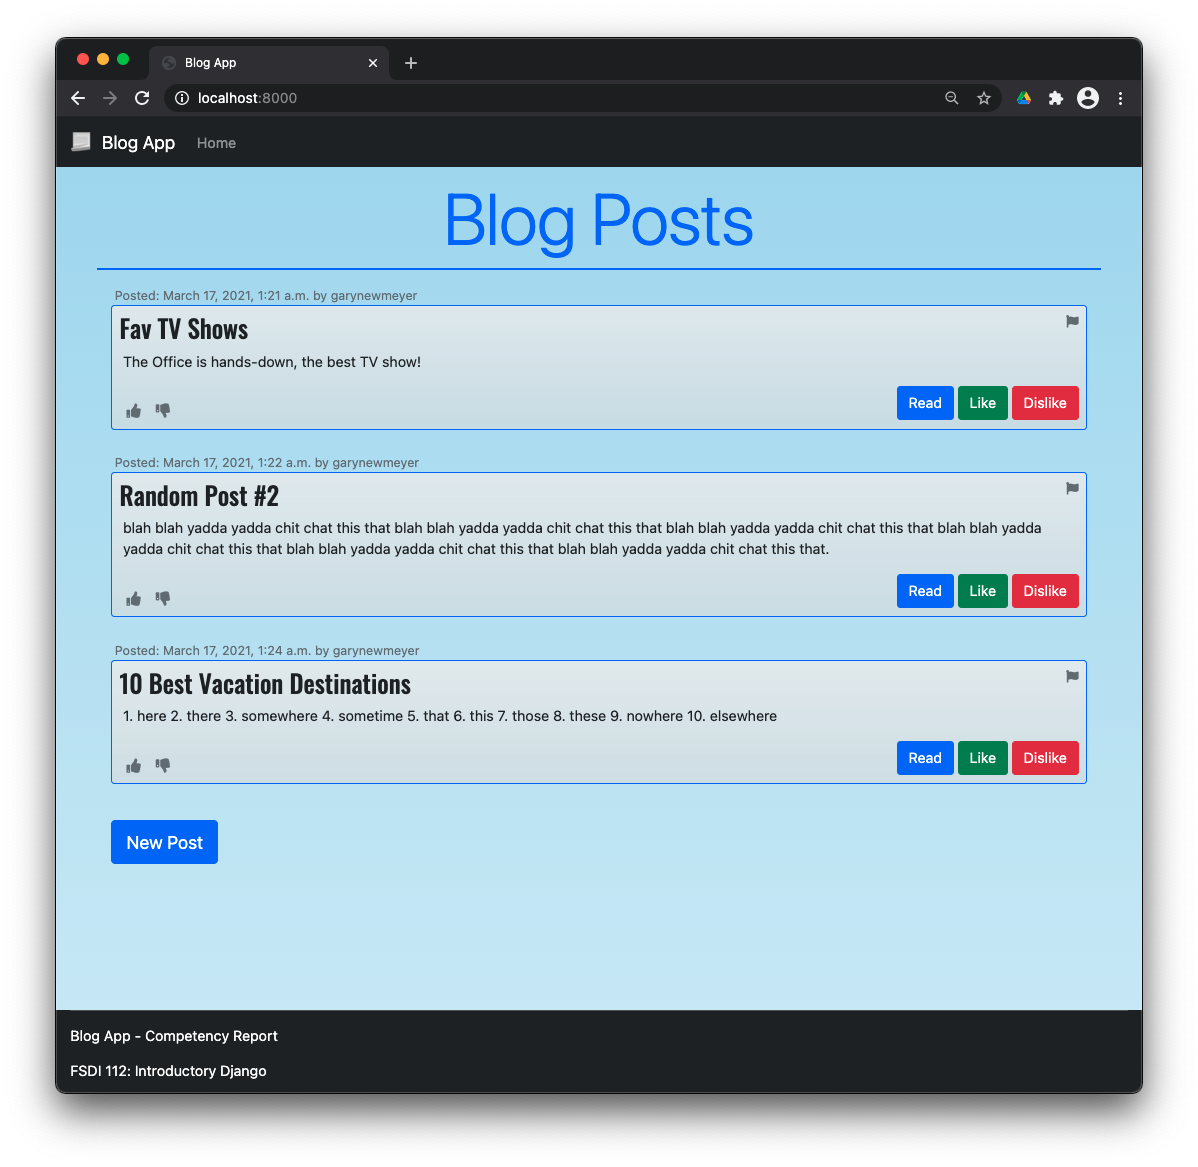
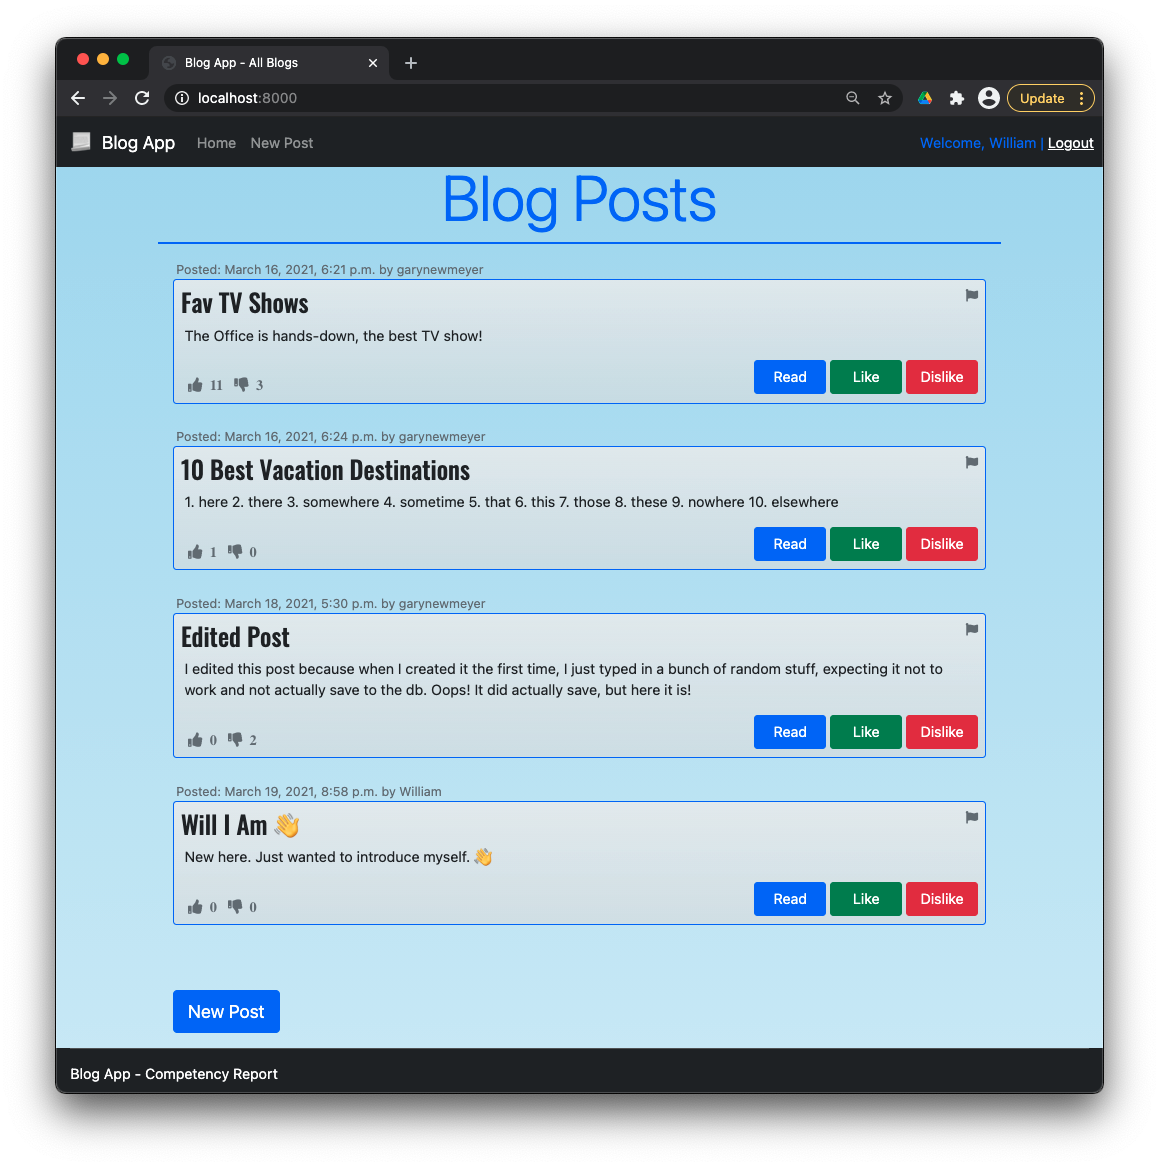
project complete

diff --git a/blog/templates/base.html b/blog/templates/base.html
@@ -15,32 +15,28 @@
 
 <body>
     <!-- N A V   B A R -->
-    <nav class="navbar navbar-expand-lg navbar-dark bg-dark fixed-top mb-5 text-warning">
+    <nav class="navbar navbar-expand-lg navbar-dark bg-dark fixed-top mb-5">
         <a class="navbar-brand mx-3" href="{% url 'home' %}">📃 &nbsp Blog App</a>
         <button class="navbar-toggler" type="button" data-toggle="collapse" data-target="#navbarNavAltMarkup" aria-controls="navbarNavAltMarkup" aria-expanded="false" aria-label="Toggle navigation">
             <span class="navbar-toggler-icon"></span>
         </button>
         <div class="collapse navbar-collapse" id="navbarNavAltMarkup">
-            <div class="navbar-nav">
-                <a class="nav-link" href="{% url 'home' %}">Home</a>
-            </div>
-            <div class="navbar-nav">
-                <a class="nav-link" href="{% url 'new_post' %}">New Post</a>
-            </div>
+            <ul class="navbar-nav mr-auto">
+                <li class="nav-item">
+                    <a class="nav-link" href="{% url 'home' %}">Home</a>
+                </li>
+                <li class="nav-item">
+                    <a class="nav-link" href="{% url 'new_post' %}">New Post</a>
+                </li>
+            </ul>
             {% if user.is_authenticated %}
-                <div class="navbar-nav">
-                    <span>
-                        <p>Welcome, {{user.username}} | <a href="{% url 'logout' %}">Logout</a></p>
-                        
-                    </span>
-                    
-                </div>
-                
+                <span class="navbar-text text-primary nav-log">
+                    Welcome, {{user.username}} | <a href="{% url 'logout' %}">Logout</a>
+                </span>
             {% else %}
-            <div class="navbar-nav">
-                <p>You are not logged in. | <a href="{% url 'login' %}">Login</a></p>
-            </div>
-                
+                <span class="navbar-text text-warning nav-log">
+                    You are not logged in | <a class="text-warning" href="{% url 'login' %}">Login</a>
+                </span>
             {% endif %}
         </div>
     </nav>
@@ -60,7 +56,7 @@
 
 </body>
 <!-- S C R I P T S -->
-<script src="https://cdn.jsdelivr.net/npm/bootstrap@5.0.0-beta2/dist/js/bootstrap.bundle.min.js" integrity="sha384-b5kHyXgcpbZJO/tY9Ul7kGkf1S0CWuKcCD38l8YkeH8z8QjE0GmW1gYU5S9FOnJ0" crossorigin="anonymous"></script>
 <script src="https://code.jquery.com/jquery-3.6.0.min.js" integrity="sha256-/xUj+3OJU5yExlq6GSYGSHk7tPXikynS7ogEvDej/m4=" crossorigin="anonymous"></script>
+<script src="https://cdn.jsdelivr.net/npm/bootstrap@5.0.0-beta2/dist/js/bootstrap.bundle.min.js" integrity="sha384-b5kHyXgcpbZJO/tY9Ul7kGkf1S0CWuKcCD38l8YkeH8z8QjE0GmW1gYU5S9FOnJ0" crossorigin="anonymous"></script>
 <script src="{% static 'js/scripts.js' %}"></script>
 </html>

diff --git a/blog/templates/delete_post.html b/blog/templates/delete_post.html
@@ -8,16 +8,26 @@
     <h1 class="display-2 mt-5 text-primary text-center">Delete Post - {{post.title}}</h1>
     <div class="divider bg-primary border border-primary"></div>
 
-    <!-- N E W   P O S T   F O R M -->
+    {% if post.author_id == user.id %}
+    <!-- D E L E T E   P O S T   F O R M -->
     <div class="mt-3 p-3 border border-primary rounded">
         <form action="" method="post">
             {% csrf_token %}
             <strong>Are you sure you want to delete "{{post.title}}"?</strong>
             <br><br>
             <input class="btn btn-lg btn-danger" type="submit" value="Confirm">
-            <input onclick="cancelDelete()" id="btn-delete-canx" class="btn btn-lg btn-success" type="" value="Cancel">
+            <button class="btn btn-lg btn-success"><a class="text-white text-decoration-none" href="{% url 'one_post' post.pk %}">Cancel</a></button>
         </form>
     </div>
+    {% else %}
+    <div class="mt-3 p-3 border border-primary rounded delete-error-btns">
+        <div class="alert alert-danger" role="alert">Error: You are not the author of this post. Are you logged in?</div>
+        <div class="d-flex justify-content-center mt-5">
+            <button class="btn btn-lg btn-primary mx-5"><a class="text-decoration-none text-white" href="{% url 'login' %}">Login</a></button>
+            <button class="btn btn-lg btn-warning"><a class="text-decoration-none text-dark" href="{% url 'home' %}">Home</a></button>
+        </div>
+    </div>
+    {% endif %}
 
 </div>
 

diff --git a/blog/templates/one_post.html b/blog/templates/one_post.html
@@ -31,8 +31,10 @@
                 </div>
 
                 <div class="edit-like-btns">
-                    <a href="{% url 'edit_post' post.pk %}"><button class="btn btn-small btn-primary">Edit</button></a>
-                    <a href="{% url 'delete_post' post.pk %}"><button class="btn btn-small btn-danger">Delete</button></a>
+                    {% if post.author_id == user.id %}
+                        <a href="{% url 'edit_post' post.pk %}"><button class="btn btn-small btn-primary">Edit</button></a>
+                        <a href="{% url 'delete_post' post.pk %}"><button class="btn btn-small btn-danger">Delete</button></a>
+                    {% endif %}
                     <button onclick="btnLike('{{post.id}}')" class="btn btn-small btn-success">Like</button>
                     <button onclick="btnDislike('{{post.id}}')" class="btn btn-small btn-warning">Dislike</button>
                 </div>

diff --git a/blog/static/css/styles.css b/blog/static/css/styles.css
@@ -9,6 +9,11 @@ body {
 
 
 /* S P E C I F I C */
+.nav-log {
+    margin-left: auto;
+    margin-right: 10px;
+}
+
 #one-post {
     background-image: linear-gradient(#ebedeedc, #dddfe0a2);
 }
@@ -31,6 +36,11 @@ body {
 
 .edit-like-btns button {
     width: 80px;
+}
+
+.delete-error-btns button {
+    width: 250px;
+    align-items: center;
 }
 
 /* F O O T E R */

diff --git a/blog/urls.py b/blog/urls.py
@@ -2,13 +2,19 @@ from django.urls import path
 from .views import *
 
 urlpatterns = [
-    path("post/<int:pk>/delete", BlogDeleteView.as_view(), name="delete_post"),
-    path("post/<int:pk>/edit", BlogUpdateView.as_view(), name="edit_post"),
+    # H O M E
     path("", BlogListView.as_view(), name="home"),
+    # C R E A T E
+    path("post/new", BlogCreateView.as_view(), name="new_post"),
+    # R E A D
     path("post/<int:pk>", BlogDetailView.as_view(), name="one_post"),
+    # U P D A T E
+    path("post/<int:pk>/edit", BlogUpdateView.as_view(), name="edit_post"),
+    # D E L E T E
+    path("post/<int:pk>/delete", BlogDeleteView.as_view(), name="delete_post"),
     path("post/<int:post_id>/like", like_post, name="like_post"),
+    # O T H E R
     path("post/<int:post_id>/dislike", dislike_post, name="dislike_post"),
     path("post/<int:post_id>/previous", previous_post, name="previous_post"),
     path("post/<int:post_id>/next", next_post, name="next_post"),
-    path("post/new", BlogCreateView.as_view(), name="new_post"),
 ]

diff --git a/blog/views.py b/blog/views.py
@@ -4,13 +4,12 @@ from django.views.generic import ListView, DetailView
 from django.views.generic.edit import CreateView, UpdateView, DeleteView
 from django.urls import reverse_lazy
 
-# ---- A L L   B L O G S
-
 
 class BlogListView(ListView):
     model = Post
     template_name = "home.html"
     context_object_name = "all_posts_list"
+# ---- A L L   B L O G S
 
 
 # ---- O N E   B L O G
@@ -20,8 +19,6 @@ class BlogDetailView(DetailView):
 
 
 # ---- C R E A T E   B L O G
-
-
 class BlogCreateView(CreateView):
     model = Post
     template_name = 'new_post.html'
@@ -29,8 +26,6 @@ class BlogCreateView(CreateView):
 
 
 # ---- U P D A T E   B L O G
-
-
 class BlogUpdateView(UpdateView):
     model = Post
     template_name = 'edit_post.html'
@@ -38,8 +33,6 @@ class BlogUpdateView(UpdateView):
 
 
 # ---- D E L E T E   B L O G
-
-
 class BlogDeleteView(DeleteView):
     model = Post
     template_name = 'delete_post.html'

diff --git a/config/settings.py b/config/settings.py
@@ -36,6 +36,7 @@ INSTALLED_APPS = [
     'django.contrib.contenttypes',
     'django.contrib.sessions',
     'django.contrib.messages',
+    # 'whitenoise'
     'django.contrib.staticfiles',
     'blog',  # <--- A P P
     'accounts',  # <--- A P P
@@ -122,5 +123,8 @@ USE_TZ = True
 
 STATIC_URL = '/static/'
 STATICFILES_DIRS = [str(BASE_DIR.joinpath('static'))]  # <--- A D D
+# STATIC_ROOT = STATIC_ROOT = str(BASE_DIR.joinpath('staticfiles'))  # <--- A D D
+# STATICFILES_STORAGE = 'whitenoise.storage.CompressedManifestStaticFilesStorage'  # <--- A D D
+# python3 manage.py collectstatic
 LOGIN_REDIRECT_URL = 'home'  # <--- A D D
 LOGOUT_REDIRECT_URL = 'home'  # <--- A D D

diff --git a/README.md b/README.md
@@ -6,10 +6,15 @@
 
 #### Acceptance criteria:
 
-- [ ] Create a blog that allows multiple users to create, view, update and delete blog posts. Blog posts can be viewed in both a list view as well as single article view.
+- [x] Create a blog that allows multiple users to create, view, update and delete blog posts. Blog posts can be viewed in both a list view as well as single article view.
 
-- [ ] An  additional non-administrator user should be able to do all these things (apart from the admin or super user).
+- [x] An  additional non-administrator user should be able to do all these things (apart from the admin or super user).
 
-- [ ] Submit your GitHub link; Your readme file in your repository MUST include a link to your deployed app (on Heroku).
+- [x] Submit your GitHub link; Your readme file in your repository MUST include a link to your deployed app (on Heroku).
+
+#### Additional Functionality Added:
+* Like / Dislike Posts
+* Edit / Delete Buttons do not show unless user who created post is logged in. In addition, navigating to the post/#/delete page does not work.
+* Next / Previous Posts links on detail page.
 
 ![](/blog/static/img/app.png)
